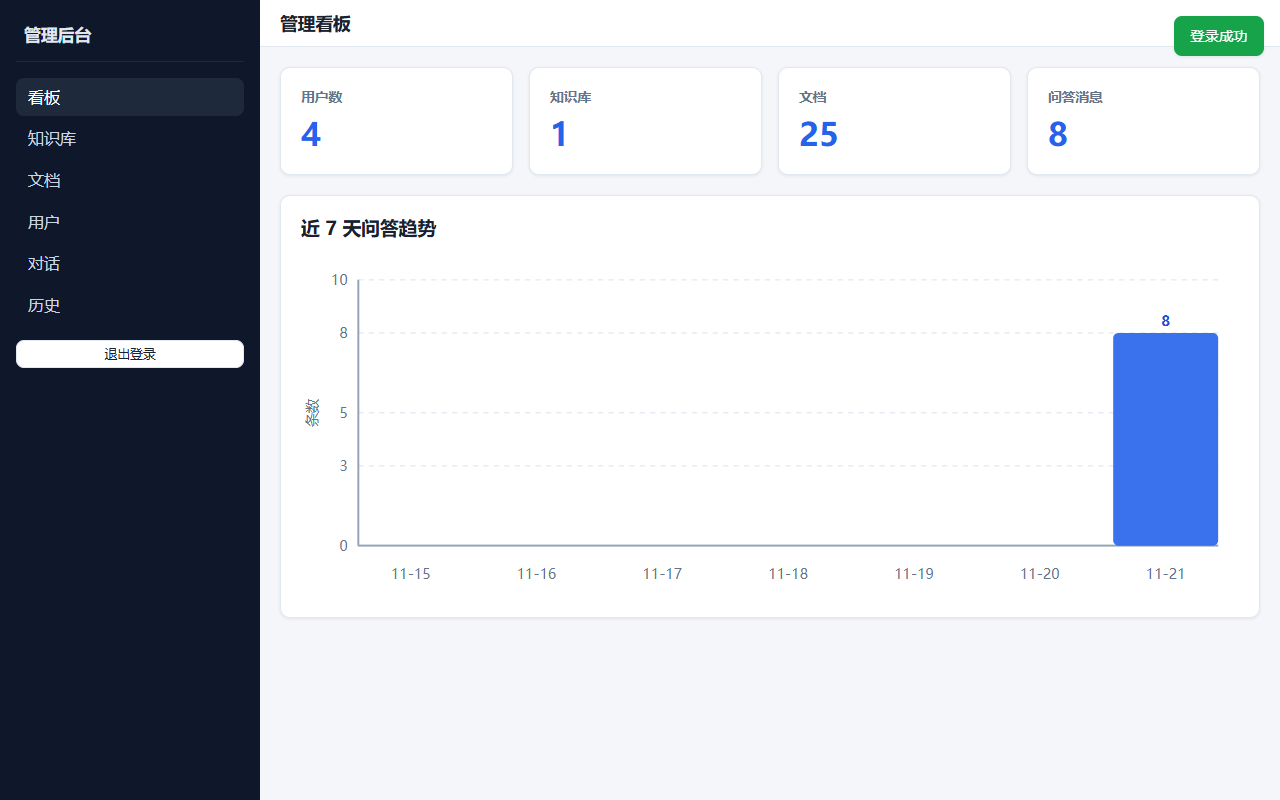
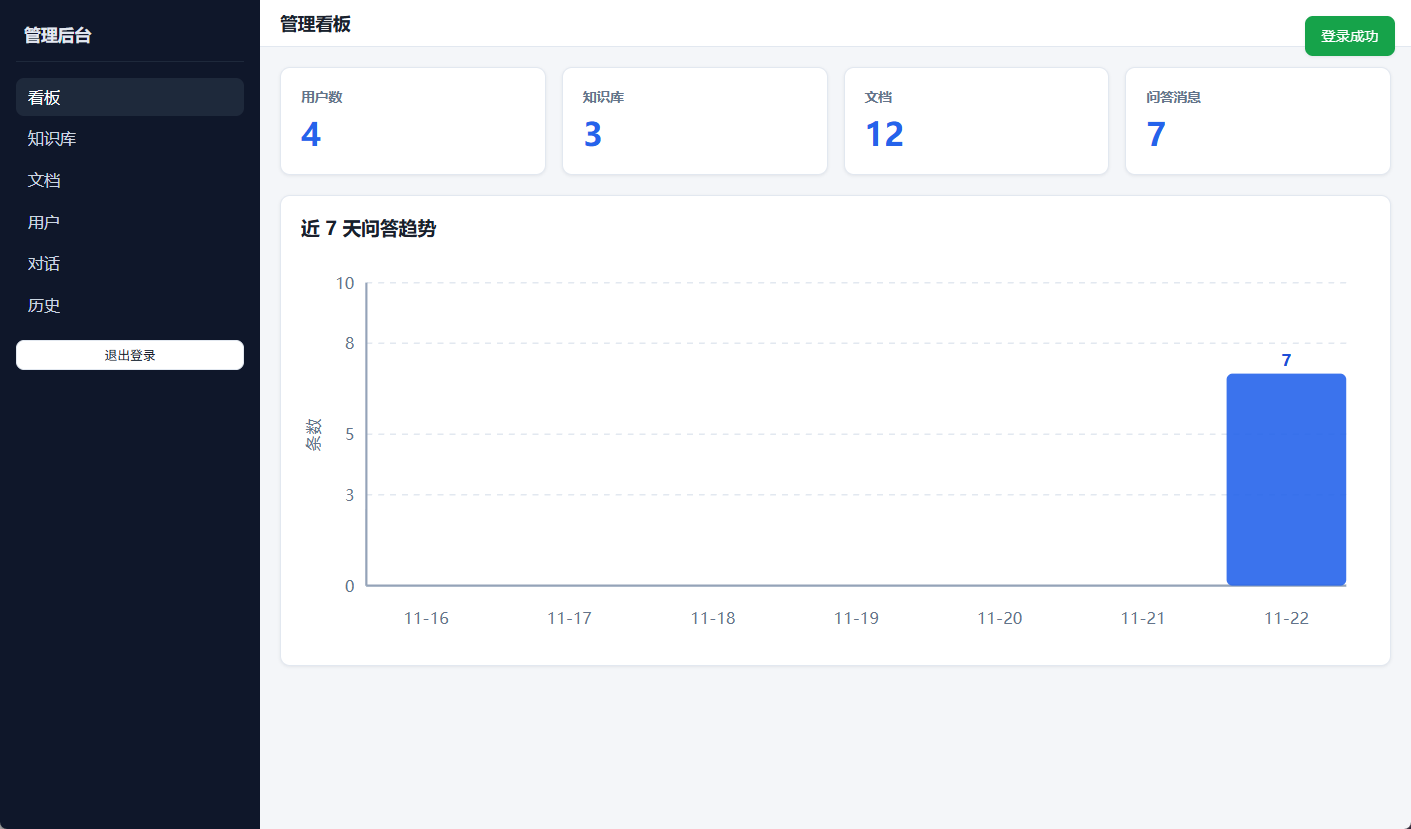
docs: 补齐交付文档与截图终稿
- seed 按 seed_docs 子文件夹分三库入库；新增 wipe_documents.py
- 管理端表格 ID 改分页序号；截图更新
- CLAUDE.md / plan.md 措辞与种子说明同步

diff --git a/static/js/pages/admin_docs.js b/static/js/pages/admin_docs.js
@@ -220,6 +220,7 @@ function renderTable() {
   if (next) next.disabled = state.page * state.pageSize >= total;
 
   const rows = pageDocs();
+  const offset = (state.page - 1) * state.pageSize;
   const allChecked = rows.length > 0 && rows.every((d) => state.selected.has(d.id));
 
   el.innerHTML = `
@@ -230,13 +231,13 @@ function renderTable() {
             <input type="checkbox" id="check-all" ${allChecked ? "checked" : ""}
                    title="全选本页" style="width:auto;margin:0" />
           </th>
-          <th>ID</th><th>文件名</th><th>类型</th><th>大小</th><th>状态</th>
+          <th>序号</th><th>文件名</th><th>类型</th><th>大小</th><th>状态</th>
           <th>分块</th><th>错误</th><th>操作</th>
         </tr>
       </thead>
       <tbody>
         ${rows
-          .map((d) => {
+          .map((d, i) => {
             const badge =
               d.status === "completed"
                 ? "badge-completed"
@@ -254,7 +255,7 @@ function renderTable() {
                        ${state.selected.has(d.id) ? "checked" : ""}
                        style="width:auto;margin:0" />
               </td>
-              <td>${d.id}</td>
+              <td>${offset + i + 1}</td>
               <td>${escapeHtml(d.filename)}</td>
               <td>${escapeHtml(d.file_type)}</td>
               <td class="muted">${formatSize(d.file_size)}</td>

diff --git a/static/js/pages/admin_users.js b/static/js/pages/admin_users.js
@@ -107,16 +107,17 @@ function renderTable() {
     <table class="table">
       <thead>
         <tr>
-          <th>ID</th><th>用户名</th><th>昵称</th><th>角色</th><th>状态</th><th>创建时间</th><th>操作</th>
+          <th>序号</th><th>用户名</th><th>昵称</th><th>角色</th><th>状态</th><th>创建时间</th><th>操作</th>
         </tr>
       </thead>
       <tbody>
         ${state.items
-          .map((u) => {
+          .map((u, i) => {
             const isSelf = me && u.id === me.id;
+            const displayNo = (state.page - 1) * state.pageSize + i + 1;
             return `
             <tr>
-              <td>${u.id}</td>
+              <td>${displayNo}</td>
               <td>${escapeHtml(u.username)}</td>
               <td>${escapeHtml(u.nickname || "")}</td>
               <td><span class="badge ${u.role === "admin" ? "badge-admin" : "badge-user"}">${u.role}</span></td>

diff --git a/static/js/pages/history.js b/static/js/pages/history.js
@@ -146,8 +146,9 @@ function renderList() {
     return;
   }
 
+  const offset = (state.page - 1) * PAGE_SIZE;
   list.innerHTML = state.items
-    .map((m) => {
+    .map((m, i) => {
       const when = m.created_at ? new Date(m.created_at).toLocaleString("zh-CN") : "";
       const sources = m.sources || [];
       const files = [...new Set(sources.map((s) => s.file_name).filter(Boolean))];
@@ -159,7 +160,7 @@ function renderList() {
           <div class="history-meta muted">
             <span>${when}</span>
             <span>·</span>
-            <span>#${m.id}</span>
+            <span>#${offset + i + 1}</span>
             ${files.length ? `<span style="margin-left:auto">${fileTags}</span>` : ""}
           </div>
           <div class="history-q"><strong>问：</strong>${escapeHtml(m.question)}</div>

diff --git a/static/js/pages/admin_kb.js b/static/js/pages/admin_kb.js
@@ -81,15 +81,15 @@ function renderTable() {
     <table class="table">
       <thead>
         <tr>
-          <th>ID</th><th>名称</th><th>描述</th><th>状态</th><th>创建时间</th><th>操作</th>
+          <th>序号</th><th>名称</th><th>描述</th><th>状态</th><th>创建时间</th><th>操作</th>
         </tr>
       </thead>
       <tbody>
         ${state.kbs
           .map(
-            (k) => `
+            (k, i) => `
           <tr>
-            <td>${k.id}</td>
+            <td>${i + 1}</td>
             <td>${escapeHtml(k.name)}</td>
             <td class="muted">${escapeHtml(k.description || "")}</td>
             <td>${k.status === 1 ? '<span class="badge badge-completed">启用</span>' : '<span class="badge badge-failed">停用</span>'}</td>

diff --git a/scripts/seed.py b/scripts/seed.py
@@ -1,4 +1,4 @@
-"""幂等种子：admin/user 账号、示例知识库、seed_docs 下 12 份文档并触发入库。
+"""幂等种子：admin/user 账号、按 seed_docs 子文件夹各建一个知识库并导入对应文档。
 
 用法：uv run python scripts/seed.py
 """
@@ -19,7 +19,6 @@ from app.db import SessionLocal  # noqa: E402
 from app.models import Document, KbMember, KnowledgeBase, User  # noqa: E402
 
 SEED_DOCS_DIR = ROOT / "seed_docs"
-KB_NAME = "公司规章制度"
 UPLOAD_DIR = ROOT / "uploads"
 
 ALLOWED_EXT = {".txt", ".md", ".pdf", ".docx"}
@@ -48,12 +47,12 @@ def ensure_user(db, username: str, password: str, nickname: str, role: str) -> U
     return user
 
 
-def ensure_kb(db, name: str, creator_id: int) -> KnowledgeBase:
+def ensure_kb(db, name: str, creator_id: int, description: str) -> KnowledgeBase:
     kb = db.execute(select(KnowledgeBase).where(KnowledgeBase.name == name)).scalar_one_or_none()
     if kb is None:
         kb = KnowledgeBase(
             name=name,
-            description="种子示例知识库：公司规章制度",
+            description=description,
             created_by=creator_id,
             status=1,
         )
@@ -78,16 +77,16 @@ def ensure_member(db, kb_id: int, user_id: int) -> None:
         print(f"[member] user {user_id} 已在 kb {kb_id}")
 
 
-def seed_documents(db, kb_id: int, creator_id: int) -> None:
-    """递归扫描 seed_docs/，同 kb 同 filename 跳过；M1 状态恒为 pending。"""
-    if not SEED_DOCS_DIR.is_dir():
-        print(f"[docs] 未找到 {SEED_DOCS_DIR}", file=sys.stderr)
+def seed_documents(db, kb_id: int, source_dir: Path, creator_id: int) -> None:
+    """递归扫描 source_dir/，同 kb 同 filename 跳过；创建 pending 并触发入库。"""
+    if not source_dir.is_dir():
+        print(f"[docs] 未找到 {source_dir}", file=sys.stderr)
         sys.exit(1)
 
     files = sorted(
-        p for p in SEED_DOCS_DIR.rglob("*") if p.is_file() and p.suffix.lower() in ALLOWED_EXT
+        p for p in source_dir.rglob("*") if p.is_file() and p.suffix.lower() in ALLOWED_EXT
     )
-    print(f"[docs] 扫描到 {len(files)} 份可入库文件")
+    print(f"[docs] {source_dir.name}: 扫描到 {len(files)} 份可入库文件")
 
     UPLOAD_DIR.mkdir(parents=True, exist_ok=True)
     created = 0
@@ -112,14 +111,14 @@ def seed_documents(db, kb_id: int, creator_id: int) -> None:
             stored_name=stored_name,
             file_type=path.suffix.lower().lstrip("."),
             file_size=stored_path.stat().st_size,
-            status="pending",  # M1 不向量化
+            status="pending",
             chunk_count=0,
             created_by=creator_id,
         )
         db.add(doc)
         db.commit()
         created += 1
-        print(f"[docs] + {path.relative_to(SEED_DOCS_DIR)} → pending")
+        print(f"[docs] + {path.relative_to(source_dir)} → pending")
 
     print(f"[docs] 新增 {created}，跳过 {skipped}")
 
@@ -143,15 +142,35 @@ def seed_documents(db, kb_id: int, creator_id: int) -> None:
     print(f"[ingest] 处理 {len(pending)} 份 pending")
 
 
+def discover_kb_dirs() -> list[Path]:
+    """seed_docs 下一级子目录即知识库（文件夹名 = 知识库名）。"""
+    if not SEED_DOCS_DIR.is_dir():
+        print(f"[docs] 未找到 {SEED_DOCS_DIR}", file=sys.stderr)
+        sys.exit(1)
+    dirs = sorted(p for p in SEED_DOCS_DIR.iterdir() if p.is_dir())
+    if not dirs:
+        print("[docs] seed_docs 下没有子文件夹，无法按文件夹建库", file=sys.stderr)
+        sys.exit(1)
+    return dirs
+
+
 def main() -> None:
     db = SessionLocal()
     try:
         admin = ensure_user(db, "admin", "admin123", "管理员", "admin")
         user = ensure_user(db, "user", "user123", "普通用户", "user")
-        kb = ensure_kb(db, KB_NAME, admin.id)
-        ensure_member(db, kb.id, admin.id)
-        ensure_member(db, kb.id, user.id)
-        seed_documents(db, kb.id, admin.id)
+        kb_dirs = discover_kb_dirs()
+        print(f"[seed] 按文件夹建库：{', '.join(d.name for d in kb_dirs)}")
+        for source_dir in kb_dirs:
+            kb = ensure_kb(
+                db,
+                name=source_dir.name,
+                creator_id=admin.id,
+                description=f"种子知识库：{source_dir.name}（对应 seed_docs/{source_dir.name}/）",
+            )
+            ensure_member(db, kb.id, admin.id)
+            ensure_member(db, kb.id, user.id)
+            seed_documents(db, kb.id, source_dir, admin.id)
         print("seed 完成")
     finally:
         db.close()

diff --git a/scripts/wipe_documents.py b/scripts/wipe_documents.py
@@ -1,0 +1,68 @@
+"""清空数据库中全部文档：DB 记录 → uploads 物理文件 → Chroma 分块/collection。
+
+用法：uv run python scripts/wipe_documents.py
+"""
+
+import sys
+from pathlib import Path
+
+# 保证项目根在 sys.path
+ROOT = Path(__file__).resolve().parents[1]
+if str(ROOT) not in sys.path:
+    sys.path.insert(0, str(ROOT))
+
+from sqlalchemy import delete, select  # noqa: E402
+
+from app.core.config import settings  # noqa: E402
+from app.db import SessionLocal  # noqa: E402
+from app.models import Document, KnowledgeBase  # noqa: E402
+from app.services.vector import delete_collection, delete_doc  # noqa: E402
+
+
+def main() -> None:
+    upload_dir = Path(settings.upload_dir)
+    db = SessionLocal()
+    try:
+        docs = db.execute(select(Document)).scalars().all()
+        print(f"[wipe] 文档记录 {len(docs)} 条")
+
+        kb_ids: set[int] = set()
+        for doc in docs:
+            kb_ids.add(doc.kb_id)
+            path = upload_dir / doc.stored_name
+            if path.is_file():
+                path.unlink()
+                print(f"[wipe] 删除文件 {doc.stored_name}")
+            try:
+                delete_doc(doc.kb_id, doc.id)
+            except Exception as exc:  # noqa: BLE001
+                print(f"[wipe] chroma delete_doc 失败 doc={doc.id}: {exc}", file=sys.stderr)
+
+        if docs:
+            db.execute(delete(Document))
+            db.commit()
+            print(f"[wipe] 已删除 {len(docs)} 条文档记录")
+
+        # 清掉所有知识库的 collection，避免残留向量
+        all_kb_ids = {kb.id for kb in db.execute(select(KnowledgeBase)).scalars()} | kb_ids
+        for kb_id in sorted(all_kb_ids):
+            try:
+                delete_collection(kb_id)
+                print(f"[wipe] 删除 collection kb_{kb_id}")
+            except Exception as exc:  # noqa: BLE001
+                print(f"[wipe] delete_collection kb_{kb_id} 失败: {exc}", file=sys.stderr)
+
+        # 顺带清理 uploads 下无主文件（DB 已无文档）
+        if upload_dir.is_dir():
+            orphans = [p for p in upload_dir.iterdir() if p.is_file()]
+            for p in orphans:
+                p.unlink()
+            if orphans:
+                print(f"[wipe] 清理 uploads 残留 {len(orphans)} 个文件")
+    finally:
+        db.close()
+    print("[wipe] 完成：数据库文档已清空")
+
+
+if __name__ == "__main__":
+    main()

diff --git a/docs/plan.md b/docs/plan.md
@@ -97,8 +97,9 @@ find seed_docs -type f | wc -l                              # 必须 = 12
 9. **`feat: 管理端统计接口`**
    - `app/api/routes/stats.py`：GET `/api/stats/dashboard` → `{users,kbs,documents,messages, trend:[{date,count}]}` 近 7 天（admin）
 
-10. **`feat: 种子脚本（双账号、示例库、12 份文档）`**
-    - `scripts/seed.py`（幂等：同 kb 同 filename 跳过；**递归扫描 seed_docs/**）：`admin/admin123`、`user/user123`；知识库「公司规章制度」；两用户均入成员；12 份文档入库（M1 状态 pending）
+10. **`feat: 种子脚本（双账号、按文件夹三库、12 份文档）`**
+    - `scripts/seed.py`（幂等：同 kb 同 filename 跳过）：`admin/admin123`、`user/user123`；**按 `seed_docs/` 一级子文件夹各建一个知识库**（文件夹名 = 库名：公司规章制度 / 技术开发规范 / 产品使用指南），各库只导入本文件夹文档；两用户均入全部库成员；12 份文档入库（M1 状态 pending）
+    - 本地直跑若 `.env` 指向 `host.docker.internal`，需覆盖 `OLLAMA_BASE_URL=http://localhost:11434`；清库可用 `scripts/wipe_documents.py`（删文档记录 + uploads + Chroma）
 
 11. **`test: 认证、权限矩阵与文档接口测试`**
     - `tests/conftest.py`（测试库 fixture：alembic upgrade head；应用工厂）、`test_auth.py`（登录/过期/错误密码/**禁用用户 401**）、`test_knowledge_base.py`（**权限矩阵**：非成员 403/404、admin 全过、授权后可见）、`test_documents.py`（上传/类型/超限/删除）、`test_stats.py`
@@ -108,7 +109,7 @@ find seed_docs -type f | wc -l                              # 必须 = 12
 ```bash
 uv sync && uv run ruff check .                # 0 error
 docker compose up -d db && uv run alembic upgrade head
-uv run python scripts/seed.py
+uv run python scripts/seed.py                 # 3 个知识库 × 各 4 份 = 12
 uv run uvicorn app.main:app --reload          # 另开终端
 curl -s localhost:8000/health                 # {"status":"ok"}
 curl -s -X POST localhost:8000/api/auth/login -H 'Content-Type: application/json' -d '{"username":"admin","password":"admin123"}'   # 返回 token
@@ -164,7 +165,7 @@ find seed_docs -type f | wc -l                # = 12
 ```bash
 uv run ruff check . && uv run pytest -q       # 全绿（含 test_parser）
 uv run uvicorn app.main:app --reload
-# 1) 重跑 uv run python scripts/seed.py（把 pending 种子向量化）
+# 1) 重跑 uv run python scripts/seed.py（把 pending 种子向量化；本地需 OLLAMA_BASE_URL=http://localhost:11434）
 #    或 admin 上传 → 立即 pending；轮询 GET /api/documents/{id} 直到 completed（记录耗时）
 # 2) user 账号 SSE 问答：
 #    curl -N -X POST localhost:8000/api/chat/ask -H "Authorization: Bearer $TOK" -H 'Content-Type: application/json' \

diff --git a/CLAUDE.md b/CLAUDE.md
@@ -2,7 +2,7 @@
 
 ## 项目定位
 
-企业级知识库问答系统（RAG），个人求职作品，交付物为 **GitHub 公开仓库 `rag_enterprise_assistant`**。
+企业级知识库问答系统（RAG），交付物为 **GitHub 公开仓库 `rag_enterprise_assistant`**。
 本文件与 `docs/plan.md`、`docs/architecture.md` **自包含**：不需要蓝本源码、不需要其他任何外部材料即可完整开工。
 
 ## 文档地图（开工前必读，顺序固定）
